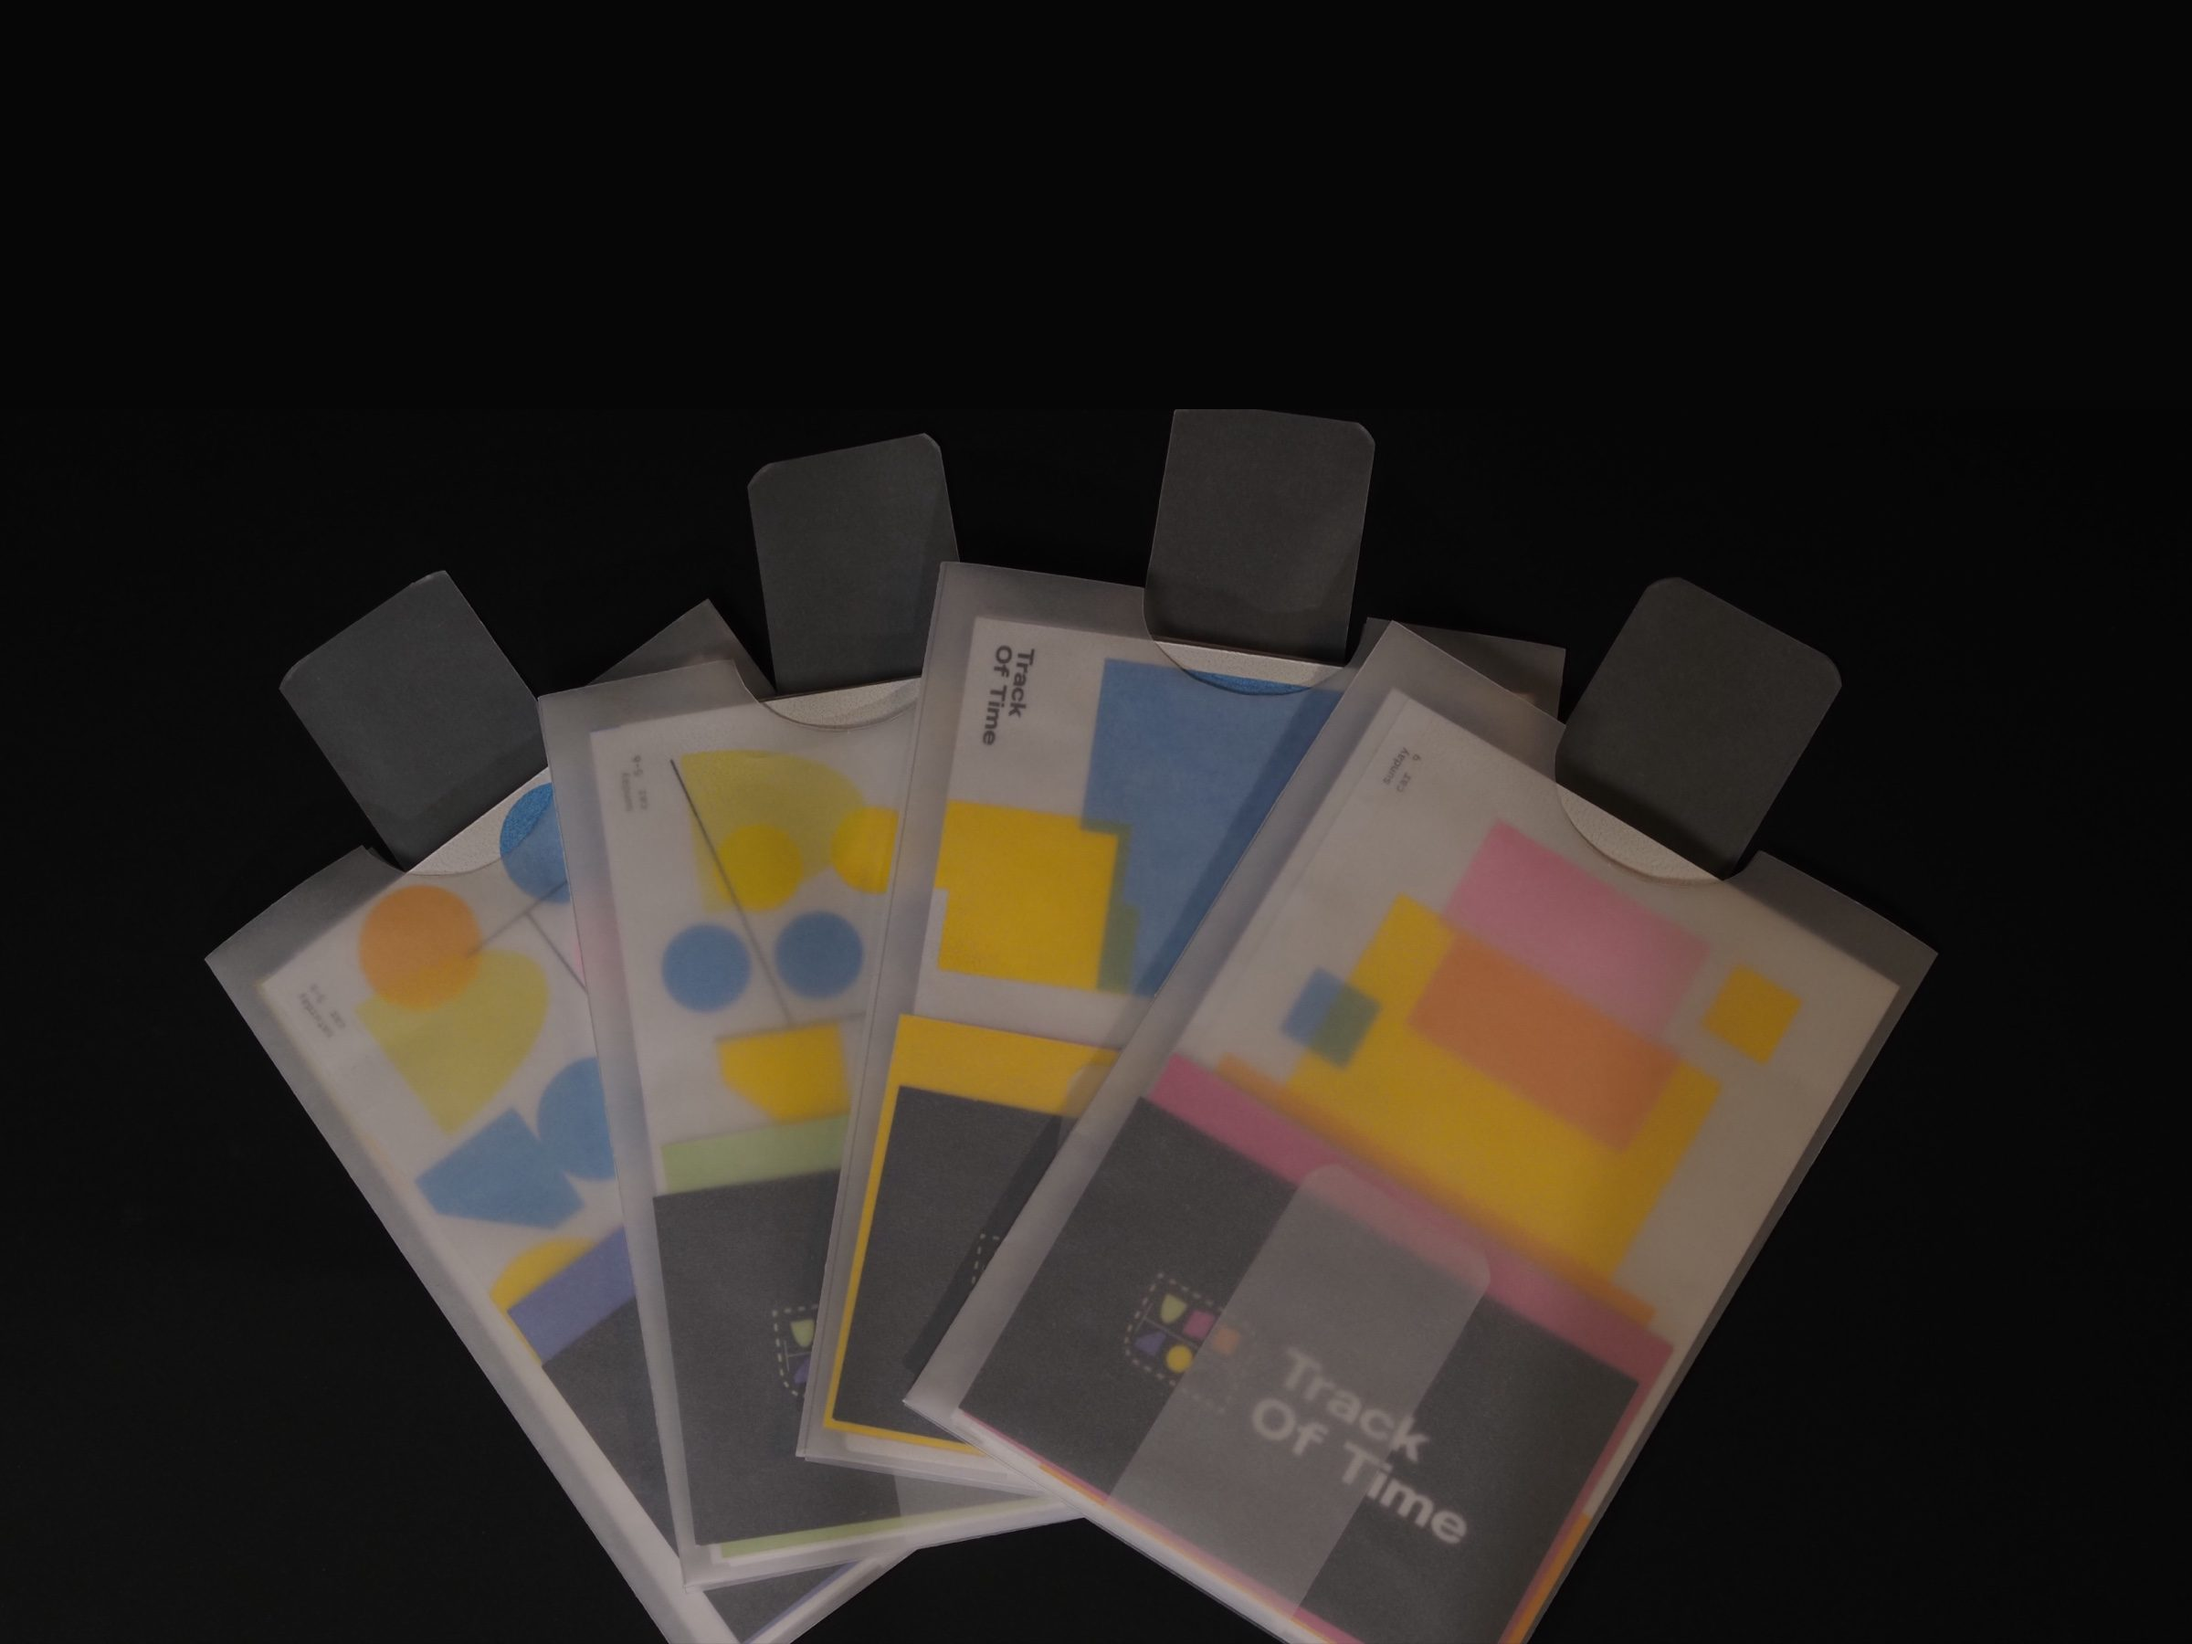
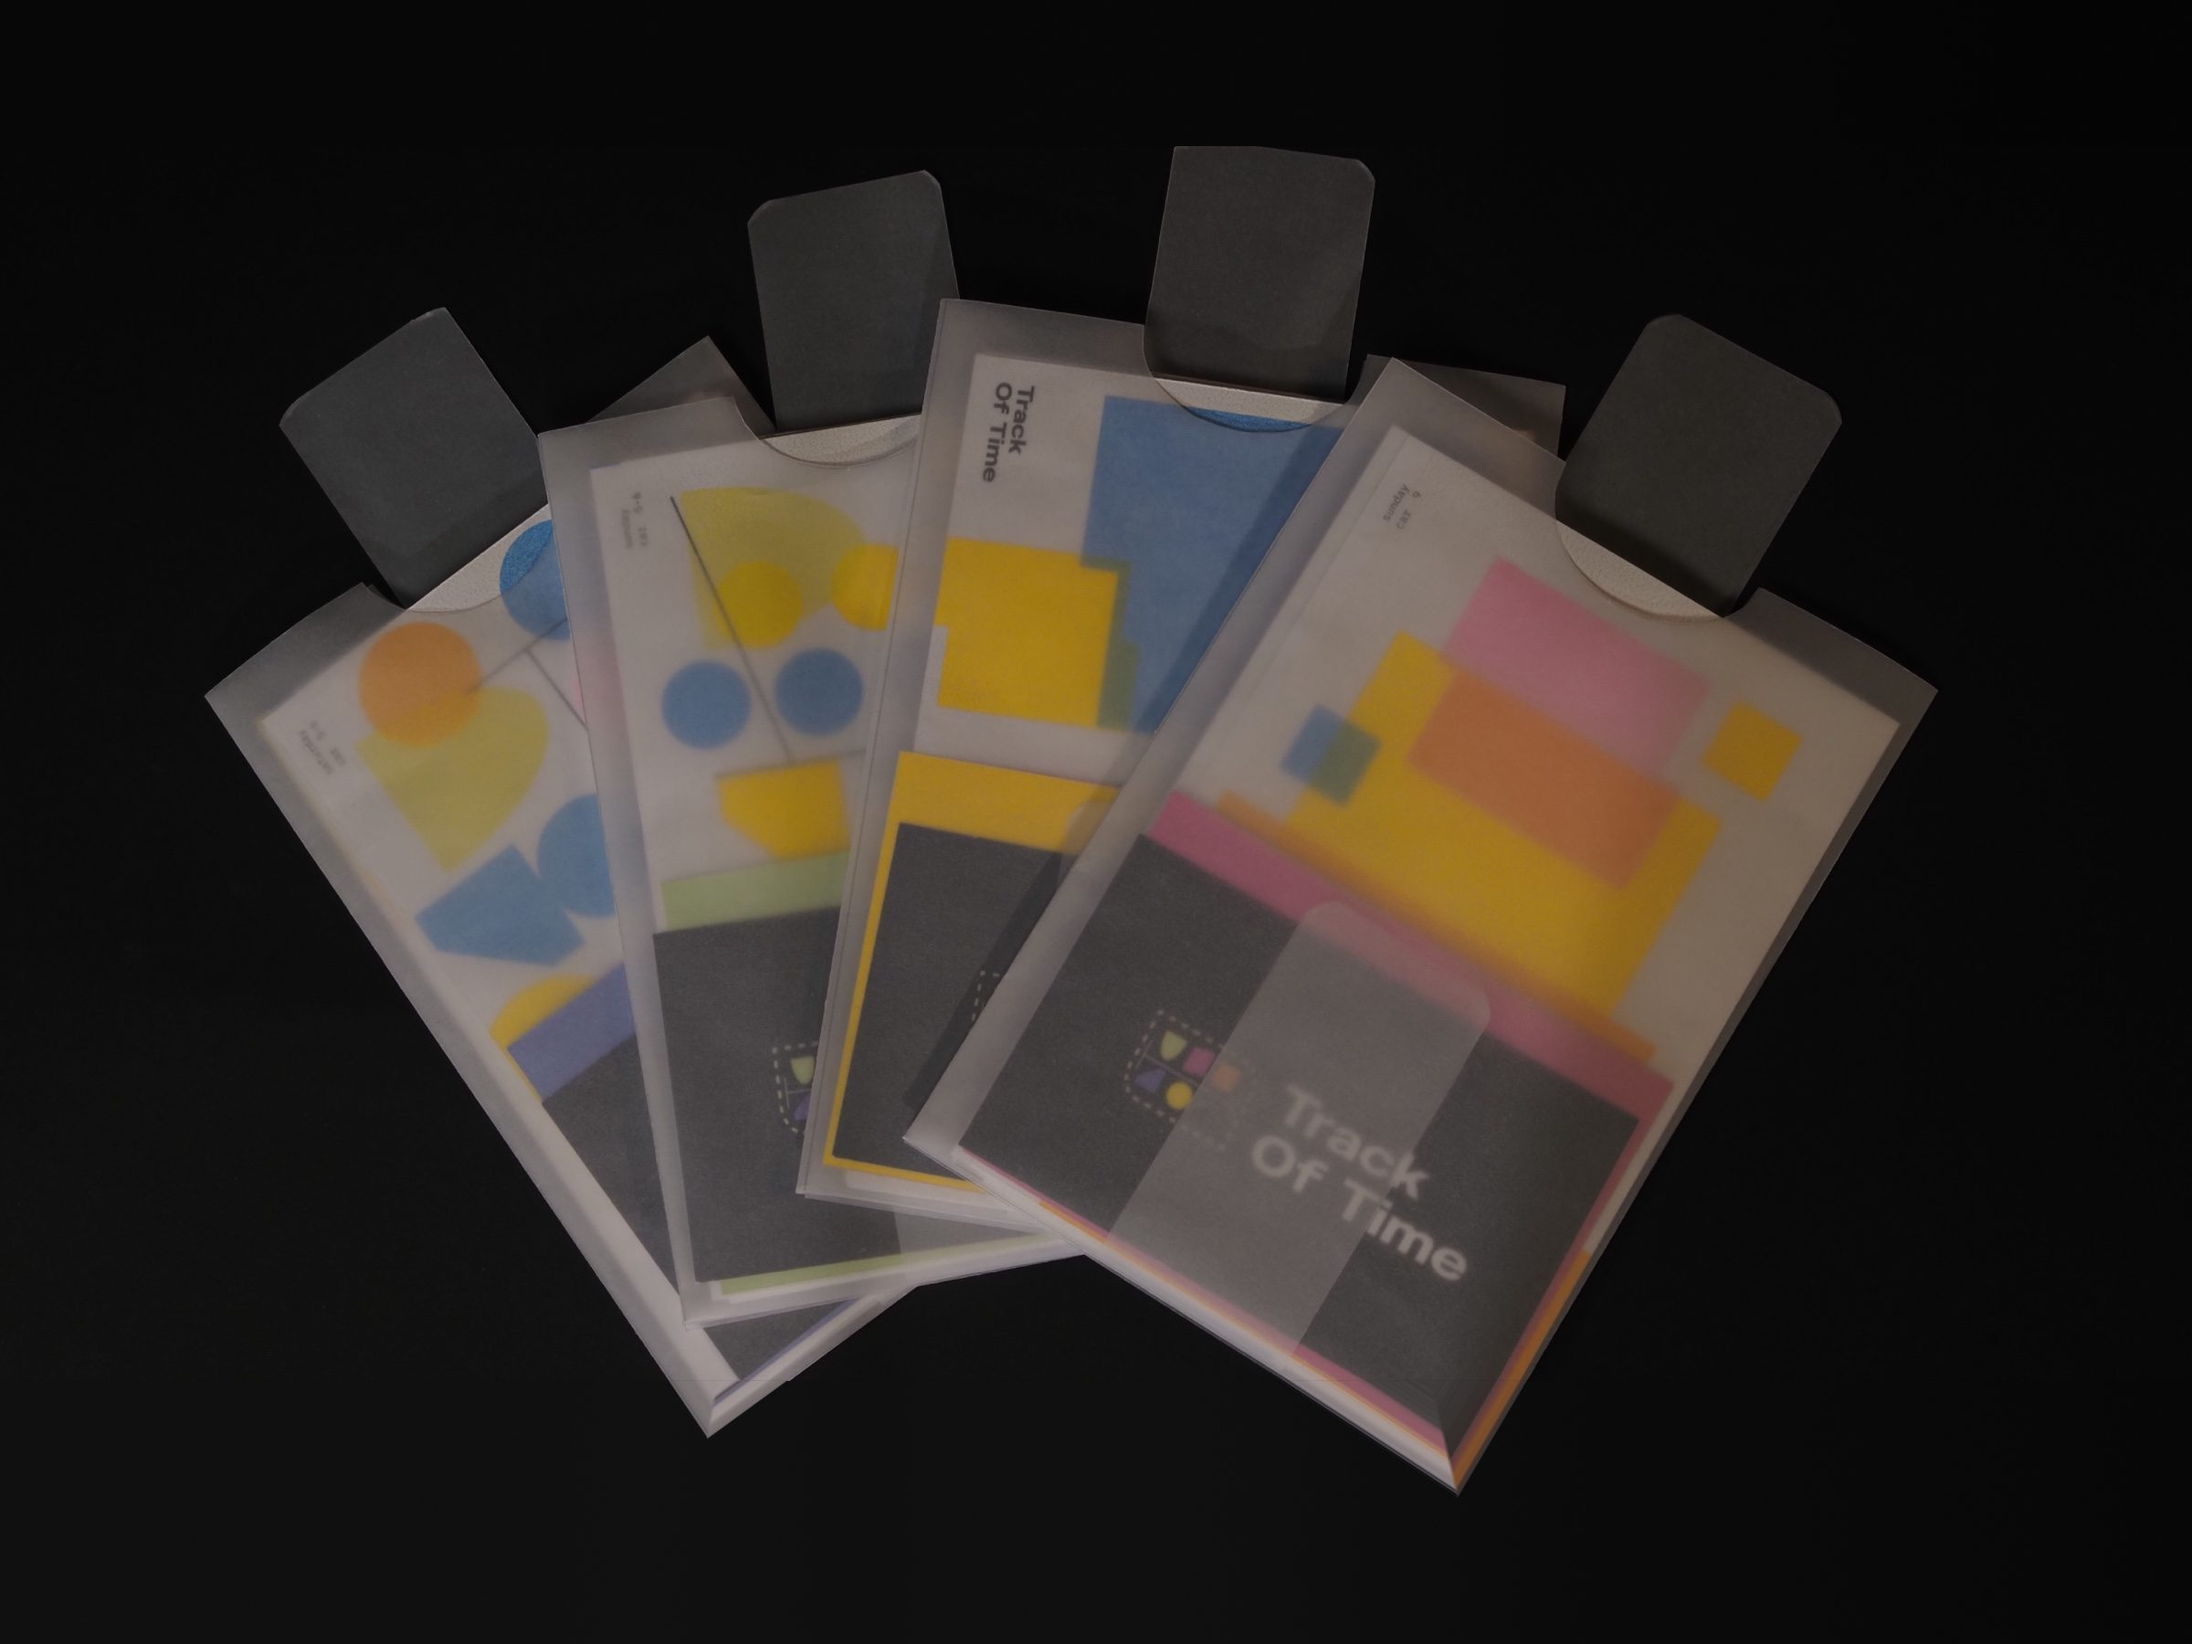
Seamless Track of Time poster row and card, add publish script

diff --git a/assets/projects.js b/assets/projects.js
@@ -35,6 +35,7 @@ window.PROJECTS = [
     },
     cover: "cover.jpg",
     keep_order: true,
+    card_tips: {"source": "cover.JPEG", "tips": [[[[458, 950], [730, 1350]], [[860, 1352], [1000, 1250]]], [[[1000, 1090], [1400, 1352]], [[1910, 950], [1672, 1352]]]]},
     card: "card.jpg",
     images: ["clock-ending.mp4", "track-of-time-motion.mp4", "pb059876.jpg", ["pb059851.jpg", "track-of-time.jpg"], ["cover.jpg", "pb059731.jpg"], ["pb059761.jpg", "pb050426.jpg"], ["pb050367.jpg", "pb050373.jpg"], ["track-of-time-color-palette.jpg", "pb050526.jpg"]],
   },
@@ -135,4 +136,4 @@ window.PROJECTS = [
     images: ["cover.jpg", "pinklogosoap.jpg", "greenlogosoap.jpg", "print-layouts.jpg", "screenshot-2026-10-14-at-9-07-05-pm.jpg"],
   },
 ];
-window.MEDIA_VERSION = "1793929640";
+window.MEDIA_VERSION = "1793941330";

diff --git a/tools/sync_portfolio.py b/tools/sync_portfolio.py
@@ -28,7 +28,7 @@ from PIL import Image, ImageOps
 import imageio_ffmpeg
 
 sys.path.insert(0, os.path.dirname(os.path.abspath(__file__)))
-from trim import find_box, extend
+from trim import find_box, extend, tip_apex, complete_tip, continue_dark
 
 FFMPEG = imageio_ffmpeg.get_ffmpeg_exe()
 
@@ -91,9 +91,11 @@ def card_fill(edge):
     return "stretch" if edge.std((0, 1)).max() < 12 else "solid"
 
 
-def make_card(dst_dir, cover):
+def make_card(dst_dir, cover, tips=None):
     """card.jpg: the cover grown to the card's 4:3 shape by continuing its own
-    background (mirrored), so the card never crops the work. None if it already fits."""
+    background (mirrored), so the card never crops the work. None if it already fits.
+    tips: objects the photo itself cuts off at the bottom, as [edge a, edge b] pairs in
+    cover.jpg pixels; they get finished, and the whole picture is centred on the card."""
     card = os.path.join(dst_dir, "card.jpg")
     if os.path.exists(card):
         os.remove(card)
@@ -115,7 +117,17 @@ def make_card(dst_dir, cover):
             calm_top, calm_bottom = (im[:band].std((0, 1)).max() < 12, im[-band:].std((0, 1)).max() < 12)
             if calm_top != calm_bottom:
                 top, bottom = (extra, 0) if calm_top else (0, extra)
+        if tips:
+            reach = min(extra, max(round(tip_apex(a, b)[1]) - h for a, b in tips))
+            top = (extra - reach) // 2
+            bottom = extra - top
         im = extend(im, top=top, bottom=bottom, mode=mode)
+        if tips:
+            im = continue_dark(continue_dark(im, top, "top"), top + h, "bottom")
+        for a, b in tips or []:
+            shift = lambda line: [[x, y + top] for x, y in line]
+            im = complete_tip(im.astype(np.float32), h + top, shift(a), shift(b))
+        im = np.clip(im, 0, 255).astype(np.uint8)
     else:
         extra = round(h * CARD_AR) - w
         band = max(4, w // 30)
@@ -170,7 +182,7 @@ def convert(src, dst, shave=0):
         shutil.copy2(src, dst)
 
 
-def sync_media(slug, folder, shaves=None, card_from=None):
+def sync_media(slug, folder, shaves=None, card_from=None, tips=None):
     shaves = shaves or {}
     root = os.path.join(BASE, os.path.expanduser(folder))
     inc = os.path.join(root, "include")
@@ -223,26 +235,70 @@ def sync_media(slug, folder, shaves=None, card_from=None):
         print(f"  ! no file with 'cover' in its name in {folder}/include")
     cover = covers[0] if covers else None
     # no "cover" file: the cover: named in projects.js is used for the card only
-    return made, cover, make_card(dst_dir, cover or (card_from if card_from in made else None))
+    # card_tips belongs to one photo: ignore it once that cover file is replaced
+    tip_list = None
+    if tips and cover and tips["source"] == done.get(cover, "").split("|")[0]:
+        tip_list = tips["tips"]
+    return made, cover, make_card(dst_dir, cover or (card_from if card_from in made else None), tip_list)
+
+
+def flat_runs(a):
+    """[start, end) runs of rows identical to the row above: empty stretches of a flat graphic."""
+    same = np.abs(a[1:].astype(np.int16) - a[:-1]).max((1, 2)) < 6
+    idx = np.flatnonzero(same) + 1
+    if not len(idx):
+        return []
+    runs = np.split(idx, np.flatnonzero(np.diff(idx) > 1) + 1)
+    return [(r[0], r[-1] + 1) for r in runs if len(r) >= a.shape[0] * 0.02]
+
+
+def grow_flat(a, new_h, runs):
+    """Make a flat graphic taller by repeating rows in its empty stretches only."""
+    extra, total = new_h - a.shape[0], sum(e - s for s, e in runs)
+    counts = np.ones(a.shape[0], int)
+    left = extra
+    for i, (s, e) in enumerate(runs):
+        n = left if i == len(runs) - 1 else round(extra * (e - s) / total)
+        counts[(s + e) // 2] += n
+        left -= n
+    return np.repeat(a, counts, 0)
+
+
+def widen(a, extra):
+    """Continue a photo's background sideways, on the plain side if only one side is plain:
+    a hand or arm running off the other edge stays at the frame instead of being smeared."""
+    band = max(4, a.shape[1] // 100)
+    calm_l, calm_r = (a[:, :band].std((0, 1)).max() < 12, a[:, -band:].std((0, 1)).max() < 12)
+    left = extra // 2
+    if calm_l != calm_r:
+        left = extra if calm_l else 0
+    return extend(a, left=left, right=extra - left)
 
 
 def fit_rows(slug, layout):
-    """Photos side by side must share one shape: a narrower photo gets its own
-    background continued left and right until it matches the widest in its row."""
+    """Things side by side must share one shape. A flat graphic grows taller through its
+    empty stretches, which leaves the photo beside it untouched. Otherwise a narrower photo
+    gets its own background continued sideways until it matches the widest in its row."""
     dst_dir = os.path.join(IMG_DIR, slug)
     for row in layout:
         if not isinstance(row, list) or not all(f.endswith(".jpg") for f in row):
             continue
-        sizes = {f: Image.open(os.path.join(dst_dir, f)).size for f in row}
-        widest = max(w / h for w, h in sizes.values())
-        for f, (w, h) in sizes.items():
-            extra = round(h * widest) - w
-            if extra < 2:
+        ims = {f: np.asarray(Image.open(os.path.join(dst_dir, f)).convert("RGB")) for f in row}
+        ratio = {f: a.shape[1] / a.shape[0] for f, a in ims.items()}
+        runs = {f: flat_runs(a) for f, a in ims.items()}
+        flat = {f for f, a in ims.items() if sum(e - s for s, e in runs[f]) >= a.shape[0] * 0.3}
+        photos = [f for f in row if f not in flat] or row
+        target = max(ratio[f] for f in photos)
+        for f, a in ims.items():
+            h, w, _ = a.shape
+            if f in flat and f not in photos and ratio[f] > target and round(w / target) - h >= 2:
+                a, how = grow_flat(a, round(w / target), runs[f]), "made taller"
+            elif round(h * target) - w >= 2:
+                a, how = widen(a, round(h * target) - w), "background extended"
+            else:
                 continue
-            im = np.asarray(Image.open(os.path.join(dst_dir, f)).convert("RGB"))
-            im = extend(im, left=extra // 2, right=extra - extra // 2)
-            Image.fromarray(im).save(os.path.join(dst_dir, f), "JPEG", quality=82, optimize=True)
-            print(f"  {f}: background extended to fit its row")
+            Image.fromarray(a).save(os.path.join(dst_dir, f), "JPEG", quality=88, optimize=True)
+            print(f"  {f}: {how} to fit its row")
 
 
 def merge_layout(layout, made, cover):
@@ -273,8 +329,9 @@ def main():
         # shave: { "file.jpg": 0.02 } cuts 2% off every side of that picture
         m = re.search(r"shave: (\{.*?\}),\n", b, re.S)
         named = re.search(r'cover: "([^"]+)"', b)
+        t = re.search(r"card_tips: (\{.*?\}),\n", b, re.S)
         res = sync_media(slug, folder.group(1), json.loads(m.group(1)) if m else None,
-                         named.group(1) if named else None)
+                         named.group(1) if named else None, json.loads(t.group(1)) if t else None)
         if not res:
             return b
         made, cover, card = res

diff --git a/tools/trim.py b/tools/trim.py
@@ -129,3 +129,84 @@ def extend(img, top=0, bottom=0, left=0, right=0, mode="stretch"):
                         _extend_top(t[::-1], right, mode)[::-1]], 0)
     return np.clip(t.transpose(1, 0, 2), 0, 255).astype(np.uint8)
 
+
+
+# ───────── finishing what a photo cut off ─────────
+
+def _sample(img, x, y):
+    """bilinear colours of img at float coordinates x, y."""
+    x0, y0 = np.floor(x).astype(int), np.floor(y).astype(int)
+    fx, fy = (x - x0)[..., None], (y - y0)[..., None]
+    h, w, _ = img.shape
+    x0, x1 = np.clip(x0, 0, w - 1), np.clip(x0 + 1, 0, w - 1)
+    y0, y1 = np.clip(y0, 0, h - 1), np.clip(y0 + 1, 0, h - 1)
+    return ((img[y0, x0] * (1 - fx) + img[y0, x1] * fx) * (1 - fy)
+            + (img[y1, x0] * (1 - fx) + img[y1, x1] * fx) * fy)
+
+
+def tip_apex(a, b):
+    """where the two edges of an object meet. a, b: [[x1, y1], [x2, y2]]."""
+    (x1, y1), (x2, y2) = a
+    (x3, y3), (x4, y4) = b
+    d = (x1 - x2) * (y3 - y4) - (y1 - y2) * (x3 - x4)
+    p, q = x1 * y2 - y1 * x2, x3 * y4 - y3 * x4
+    return ((p * (x3 - x4) - (x1 - x2) * q) / d, (p * (y3 - y4) - (y1 - y2) * q) / d)
+
+
+def complete_tip(img, cut, a, b):
+    """img: (h, w, 3) float, photo content above row `cut`. An object runs off that row
+    between edges a and b. Below it, continue each edge's own bands along that edge,
+    joined with a mitre where they meet, so the object ends in a real corner."""
+    ax, ay = tip_apex(a, b)
+    ys, xs = np.mgrid[cut:min(img.shape[0], int(ay) + 3), 0:img.shape[1]].astype(np.float32)
+    def dist(line):
+        # distance from line, positive on the side the object is on
+        (x1, y1), (x2, y2) = line
+        nx, ny = y2 - y1, x1 - x2
+        k = np.hypot(nx, ny)
+        inside = (other_mid[0] - x1) * nx + (other_mid[1] - y1) * ny
+        s = 1 if inside > 0 else -1
+        return s * ((xs - x1) * nx + (ys - y1) * ny) / k
+    def along(line):
+        # slide each pixel along the edge back up into the photo
+        (x1, y1), (x2, y2) = line
+        src_y = cut - 2.0
+        t = (ys - src_y) / (y2 - y1)
+        return _sample(img, xs - t * (x2 - x1), np.full_like(ys, src_y))
+    def at_cut(line):
+        (x1, y1), (x2, y2) = line
+        return x1 + (cut - y1) * (x2 - x1) / (y2 - y1)
+    other_mid = ((at_cut(a) + at_cut(b)) / 2, float(cut))     # a point inside the object
+    da, db = dist(a), dist(b)
+    mix = np.clip((db - da) / 6 + 0.5, 0, 1)[..., None]     # 1 near edge a → 0 near edge b
+    paint = along(a) * mix + along(b) * (1 - mix)
+    alpha = np.clip(np.minimum(da, db) / 1.5 + 0.5, 0, 1)[..., None]
+    img[cut:cut + ys.shape[0]] = img[cut:cut + ys.shape[0]] * (1 - alpha) + paint * alpha
+    return img
+
+
+def continue_dark(img, cut, side, seed=7):
+    """Rows beyond `cut` on one side ("top" rows above it, "bottom" rows from it on), filled with
+    the dark background found at that edge of the photo, column by column, with the photo's own
+    grain: no seam. Columns where the work reaches the edge borrow from the dark ones beside them."""
+    img = img.astype(np.float32)
+    h, w, _ = img.shape
+    band = img[cut:cut + 24] if side == "top" else img[cut - 24:cut]
+    line = np.median(band, 0)
+    grey = line.mean(1)
+    dark = grey < 30
+    pad = w // 50                                       # stay clear of the glow around the work
+    dark &= np.convolve(~dark, np.ones(2 * pad + 1), "same") == 0
+    xs = np.arange(w)
+    line = np.stack([np.interp(xs, xs[dark], line[dark, i]) for i in range(3)], 1)
+    line = _smooth(line, max(3, w // 30))
+    grain = float(np.median(band[:, dark].mean(2).std(0)))
+    n = cut if side == "top" else h - cut
+    rows = np.repeat(line[None], n, 0)
+    rows += np.random.default_rng(seed).normal(0, grain, (n, w, 1))
+    rows -= rows[:, dark].mean((0, 1)) - band[:, dark].mean((0, 1))   # same overall level as the photo
+    if side == "top":
+        img[:cut] = rows
+    else:
+        img[cut:] = rows
+    return img
